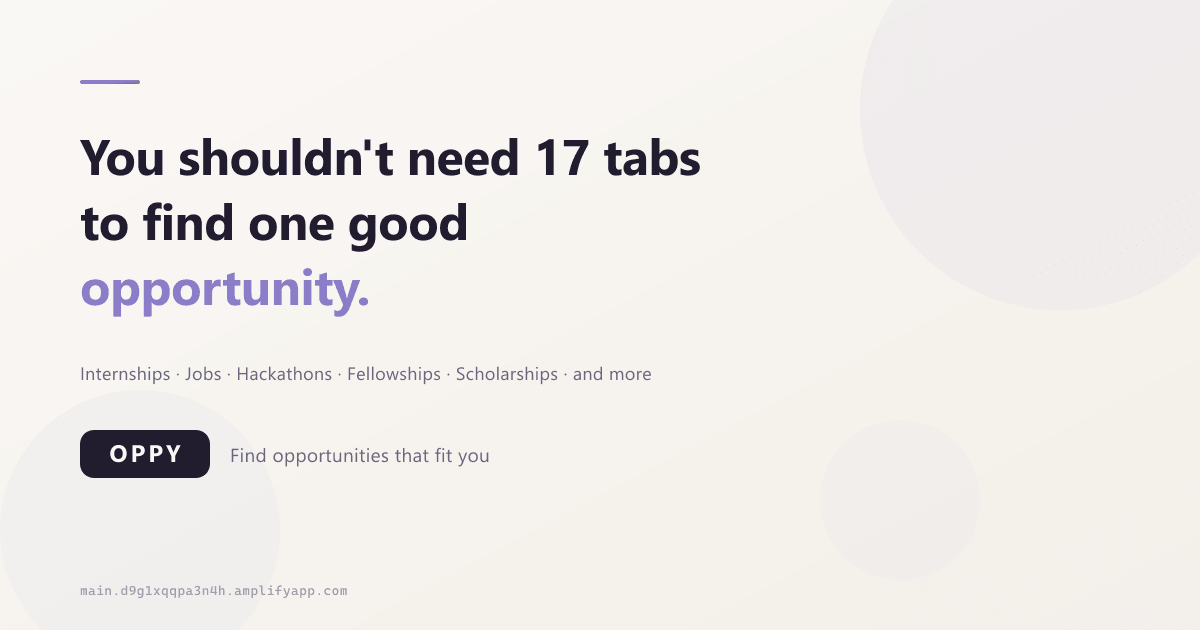
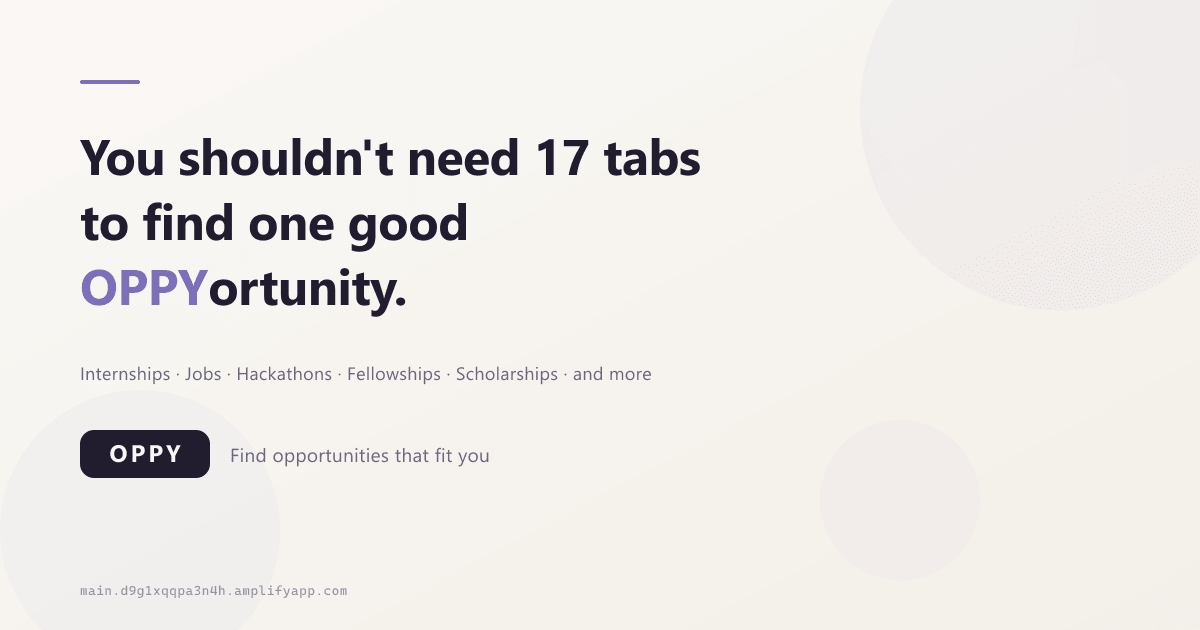
feat: emphasize OPPY in homepage OG preview image
Render the OG headline as "OPPYortunity." with OPPY in the brand
purple gradient and the remainder in ink, so the brand reads clearly
at Slack/link-preview sizes. Regenerates og-homepage.png from the
updated generator and keeps the static SVG source in sync.

Changed region(s): [[0.0617, 0.4222, 0.3392, 0.5127]]

diff --git a/lib/__tests__/og-metadata.test.ts b/lib/__tests__/og-metadata.test.ts
@@ -1,6 +1,7 @@
 import { describe, it, expect } from "vitest";
 import { readFileSync, existsSync } from "fs";
 import { join } from "path";
+import sharp from "sharp";
 
 const layoutCode = readFileSync("app/layout.tsx", "utf8");
 const detailCode = readFileSync("app/opportunity/[id]/page.tsx", "utf8");
@@ -156,5 +157,55 @@ describe("No localhost in metadata", () => {
 
   it("SITE_URL fallback is the production domain", () => {
     expect(layoutCode).toContain('"https://main.d9g1xqqpa3n4h.amplifyapp.com"');
+  });
+});
+
+// ── 7. OG image headline emphasis (OPPY vs ortonity) ─────────────────────
+
+describe("OG image — OPPYortunity headline emphasis", () => {
+  const genCode = readFileSync("scripts/generate-og-image.mjs", "utf8");
+  const svgCode = readFileSync("public/og-homepage.svg", "utf8");
+
+  it("generator renders OPPY and ortonity as separate runs", () => {
+    expect(genCode).toContain(">OPPY</tspan>");
+    expect(genCode).toContain(">ortunity.</tspan>");
+    expect(genCode).not.toContain(">opportunity.</tspan>");
+  });
+
+  it("OPPY uses the brand purple accent, ortonity uses ink", () => {
+    expect(genCode).toContain('fill="url(#oppGradient)">OPPY</tspan>');
+    expect(genCode).toContain('<tspan fill="#211D2E">ortunity.</tspan>');
+  });
+
+  it("static SVG source keeps the same split treatment", () => {
+    expect(svgCode).toContain(">OPPY</tspan>");
+    expect(svgCode).toContain(">ortunity.</tspan>");
+    expect(svgCode).not.toContain(">opportunity.</tspan>");
+  });
+
+  it("generated PNG headline shows purple OPPY + ink ortonity", async () => {
+    if (!ogPngExists) return;
+    const { data, info } = await sharp(ogPngPath)
+      .raw()
+      .toBuffer({ resolveWithObject: true });
+    const w = info.width;
+    const ch = info.channels;
+    let purple = 0;
+    let ink = 0;
+    // third headline line band (baseline y=305, font-size 50)
+    for (let y = 275; y < 345; y++) {
+      for (let x = 0; x < w; x++) {
+        const i = (y * w + x) * ch;
+        const r = data[i],
+          g = data[i + 1],
+          b = data[i + 2];
+        // #8B7DC7-ish (blue-dominant purple)
+        if (Math.abs(r - 0x8b) < 45 && Math.abs(g - 0x7d) < 45 && Math.abs(b - 0xc7) < 45 && b > r && r > g) purple++;
+        // #211D2E-ish ink
+        if (Math.abs(r - 0x21) < 30 && Math.abs(g - 0x1d) < 30 && Math.abs(b - 0x2e) < 30) ink++;
+      }
+    }
+    expect(purple).toBeGreaterThan(500);
+    expect(ink).toBeGreaterThan(500);
   });
 });
